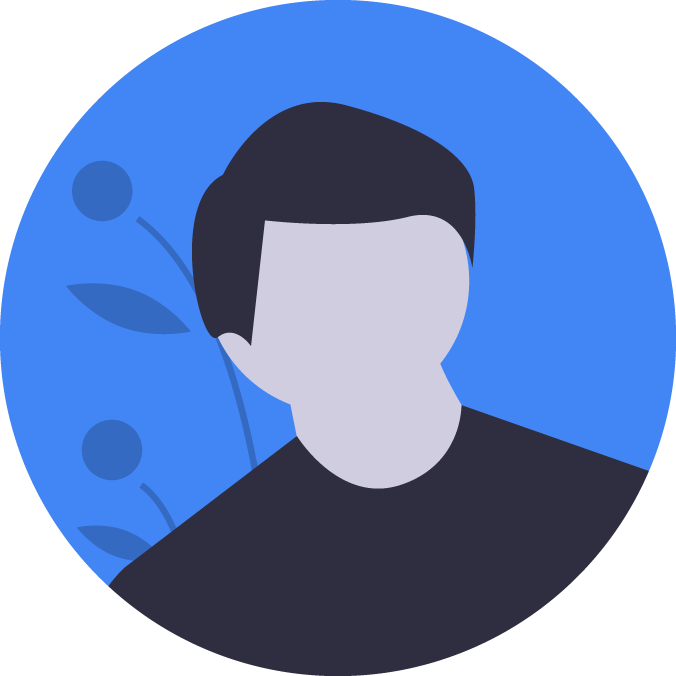
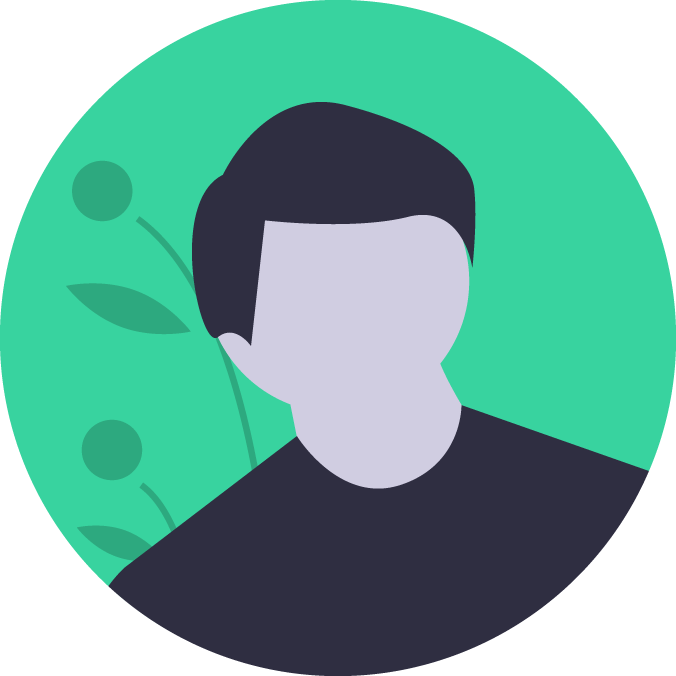
updated profile images, fixed styling of cards, adjusted font sizes

diff --git a/src/scripts/tasks/eventListeners.js b/src/scripts/tasks/eventListeners.js
@@ -100,7 +100,7 @@ const WEB = {
 					<img class="profileImg" src="/src/images/users/${obj.userId}.png">
 				</div>
 				<div class="myTasks">
-					<h5>${obj.title}<h5>
+					<h5>${obj.title}</h5>
 					<p>Due Date: ${obj.dueDate} </p>
 					<p>completed?: 	<input type="checkbox" id="taskCompleted--${obj.id}" class="taskCompleted" value="yes"></p>
 					<button class="edit-button" type="button" id="edit--${obj.id}">EDIT</button>
@@ -113,7 +113,7 @@ const WEB = {
 		return `
 			<div class="friendsTaskContainer">
 				<div class="friendsTasks">
-					<h5>${obj.title}<h5>
+					<h5>${obj.title}</h5>
 					<p>Due Date: ${obj.dueDate} </p>
 					<p>completed?: ${obj.completed}</p>
 				</div>
@@ -126,7 +126,7 @@ const WEB = {
 	myFinishedTaskHTML: obj => {
 		return `
             <div class="myTasks">
-                <h5>${obj.title}<h5>
+                <h5>${obj.title}</h5>
                 <p>Due Date: ${obj.dueDate} </p>
                 <p>completed?: ${obj.completed}</p>
                 <button type="button" class="delete-button" id="delete--${obj.id}">DELETE</button>
@@ -136,7 +136,7 @@ const WEB = {
 	friendsFinishedTaskHTML: obj => {
 		return `
             <div class="friendsTasks">
-                <h5>${obj.title}<h5>
+                <h5>${obj.title}</h5>
                 <p>Due Date: ${obj.dueDate} </p>
                 <p>completed?: ${obj.completed}</p>   
             </div>

diff --git a/src/scripts/events/eventListeners.js b/src/scripts/events/eventListeners.js
@@ -78,7 +78,7 @@ const WEB = {
 					<img class="profileImg" src="/src/images/users/${obj.userId}.png">
 				</div>
             <div class="myEvents">
-                <h5>${obj.title}<h5>
+                <h5>${obj.title}</h5>
                 <p>Date: ${obj.date} </p>
                 <p>location: ${obj.location}</p>
                 <button type="button" class="edit-button" id="edit--${obj.id}">EDIT</button>
@@ -91,7 +91,7 @@ const WEB = {
 		return `
 		<div class="friendEventContainer">
             <div class="friendsEvents">
-                <h5>${obj.title}<h5>
+                <h5>${obj.title}</h5>
                 <p>Date: ${obj.date} </p>
                 <p>location: ${obj.location}</p>
 			</div>

diff --git a/src/scripts/articles/eventListeners.js b/src/scripts/articles/eventListeners.js
@@ -83,7 +83,7 @@ const WEB = {
 					<img class="profileImg" src="/src/images/users/${obj.userId}.png">
 				</div>
             <div class="myArticles">
-                <h5>${obj.title}<h5>
+                <h5>${obj.title}</h5>
                 <p>Date: ${obj.date} </p>
                 <p>url: ${obj.url}</p>
                 <p>summary: ${obj.summary}</p>
@@ -97,7 +97,7 @@ const WEB = {
 		return `
 		<div class="friendArticleContainer">
             <div class="friendsArticles">
-                <h5>${obj.title}<h5>
+                <h5>${obj.title}</h5>
                 <p>Date: ${obj.date} </p>
                 <p>url: ${obj.url}</p>
                 <p>summary: ${obj.summary}</p>

diff --git a/src/styles/main.css b/src/styles/main.css
@@ -614,3 +614,24 @@ fieldset {
 	justify-content: flex-end;
 	width: 100%;
 }
+
+/* chat styling */
+
+.message-value {
+	margin-bottom: 0em;
+	margin-top: 0;
+	font-style: bold;
+	font-size: 1.2em;
+}
+
+.message-date,
+.message-name {
+	font-size: 0.8em;
+	position: relative;
+	/* top: -20px; */
+}
+
+h5 {
+	font-size: 1.3em;
+	margin: 0.5em 0em 0em 0em;
+}
